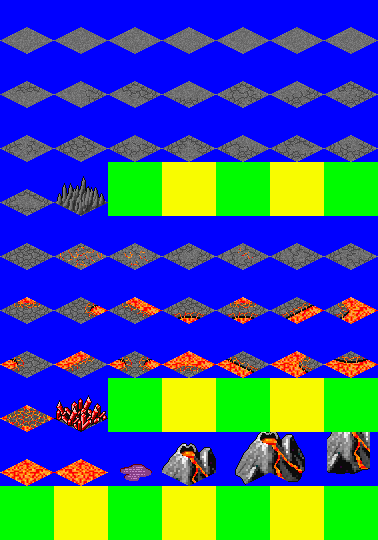
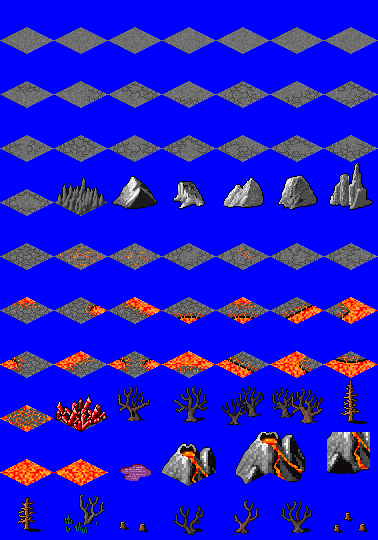
Map gen tweaks

Changed region(s): [[0.0, 0.8889, 1.0, 1.0], [0.2619, 0.6815, 1.0, 0.8], [0.2619, 0.2963, 1.0, 0.4148]]

diff --git a/mapgen.py b/mapgen.py
@@ -604,12 +604,12 @@ class EdgeOfCivilization( RandomScene ):
     def prepare( self, gb ):
         # Step one- we're going to use a plasma map to set water/lo/hi ground.
         # Fill all non-water tiles with True walls for now.
-        myplasma = Plasma()
+        self.plasma = Plasma()
         for x in range( self.width ):
             for y in range( self.height ):
-                if myplasma.map[x][y] < 0.15:
+                if self.plasma.map[x][y] < 0.15:
                     gb.map[x][y].floor = maps.WATER
-                elif myplasma.map[x][y] < 0.75:
+                elif self.plasma.map[x][y] < 0.75:
                     gb.map[x][y].floor = maps.LOGROUND
                     gb.map[x][y].wall = True
                 else:
@@ -632,9 +632,7 @@ class EdgeOfCivilization( RandomScene ):
                     self.civilized_bits.append( r )
 
         # Create the road.
-        road = pygame.Rect( self.area.x + self.area.width - 10, self.area.y, 7, self.area.height )
-        self.fill( gb, road, floor=maps.HIGROUND, wall=None )
-        self.fill( gb, road.inflate(4,0), wall=None )
+        self.road = pygame.Rect( self.area.x + self.area.width - 10, self.area.y, 7, self.area.height )
 
         self.roadbits = list()
         for y in range(10):
@@ -646,6 +644,12 @@ class EdgeOfCivilization( RandomScene ):
     def connect_contents( self, gb ):
         # Connect all civilized areas with HIGROUND.
         connected = self.roadbits
+        r_prev = connected[0]
+        for r in connected[1:]:
+            self.draw_road_connection( gb, r.area.centerx, r.area.centery, r_prev.area.centerx, r_prev.area.centery )
+            r_prev = r            
+        self.draw_road_connection( gb, connected[0].area.centerx, connected[0].area.centery, self.road.centerx, self.road.top )
+        self.draw_road_connection( gb, connected[-1].area.centerx, connected[-1].area.centery, self.road.centerx, self.road.bottom )
         for r in self.civilized_bits:
             connected.sort( key=r.find_distance_to )
             self.draw_road_connection( gb, r.area.centerx, r.area.centery, connected[0].area.centerx, connected[0].area.centery )
@@ -653,22 +657,44 @@ class EdgeOfCivilization( RandomScene ):
 
     mutate = CellMutator()
 
-    def convert_true_walls( self ):
-        for x in range( self.width ):
-            for y in range( self.height ):
-                if self.gb.map[x][y].wall == True:
-                    self.gb.map[x][y].wall = maps.BASIC_WALL
-
     def draw_road_connection( self, gb, x1,y1,x2,y2 ):
         path = animobs.get_line( x1,y1,x2,y2 )
         for p in path:
-            self.fill( gb, pygame.Rect(p[0]-1,p[1]-1,3,3), floor=maps.HIGROUND, wall=None )
+            self.fill( gb, pygame.Rect(p[0]-2,p[1]-2,5,5), wall=None )
+            self.fill( gb, pygame.Rect(p[0]-1,p[1]-1,3,3), floor=maps.HIGROUND )
+
+    def water_nearby( self, x, y ):
+        """Return True if a water tile is adjacent."""
+        found_water = False
+        for d in self.gb.DELTA8:
+            if self.gb.get_floor( x + d[0], y + d[1] ) is maps.WATER:
+                found_water = True
+                break
+        return found_water
+
+    def four_true_walls( self, x, y ):
+        """Return True if this tile is upper left corner of block of four True walls."""
+        return (self.gb.get_wall(x+1,y) is True) and (self.gb.get_wall(x+1,y+1) is True) and (self.gb.get_wall(x,y+1) is True)
 
     def convert_true_walls( self ):
         for x in range( self.width ):
             for y in range( self.height ):
                 if self.gb.map[x][y].wall == True:
-                    self.gb.map[x][y].wall = maps.TREES
+                    if x%3 == 0 and y%3 == 0 and self.four_true_walls(x,y) and random.triangular(0.3,1.0,0.90) < self.plasma.map[x][y]:
+                        self.gb.map[x][y].wall = maps.MOUNTAIN_TOP
+                        self.gb.map[x+1][y].wall = maps.MOUNTAIN_RIGHT
+                        self.gb.map[x][y+1].wall = maps.MOUNTAIN_LEFT
+                        self.gb.map[x+1][y+1].wall = maps.MOUNTAIN_BOTTOM
+                    elif self.water_nearby( x, y ):
+                        if random.randint(1,3) != 2:
+                            self.gb.map[x][y].wall = maps.ROCKS
+                        else:
+                            self.gb.map[x][y].wall = None
+                    else:
+                        if self.plasma.map[x][y] < 0.85:
+                            self.gb.map[x][y].wall = maps.TREES
+                        else:
+                            self.gb.map[x][y].wall = maps.ROCKS
 
 
 if __name__ == '__main__':

diff --git a/maps.py b/maps.py
@@ -38,7 +38,7 @@ class SingTerrain( object ):
     def __reduce__( self ):
         return self.ident
 
-class VariableTerrain( object ):
+class VariableTerrain( SingTerrain ):
     # A singleton terrain class; use these objects as tokens for maps.
     def __init__( self, ident, spritesheet = SPRITE_FLOOR, block_vision = False, block_walk = False, block_fly = False, frames = (0,1,) ):
         # ident should be the module-level name of this stat.
@@ -203,7 +203,8 @@ MOUNTAIN_RIGHT = SingTerrain( "MOUNTAIN_RIGHT", block_walk = True, frame = 61 )
 MOUNTAIN_BOTTOM = SingTerrain( "MOUNTAIN_BOTTOM", block_walk = True, frame = 62 )
 SPIRAL_STAIRS_UP = SingTerrain( "SPIRAL_STAIRS_UP", block_walk = True, spritesheet=SPRITE_INTERIOR, frame=0 )
 SPIRAL_STAIRS_DOWN = SingTerrain( "SPIRAL_STAIRS_DOWN", block_walk = True, spritesheet=SPRITE_INTERIOR, frame=1 )
-TREES = CrowdTerrain( "TREES", inner_frames = (54,67,68,69,67,68,69), outer_frames = (51,52,53,63,64,65,66) )
+ROCKS = VariableTerrain( "ROCKS", spritesheet = SPRITE_GROUND, block_walk=True, frames = (23,24,25,26,27) )
+TREES = CrowdTerrain( "TREES", inner_frames = (51,52,53,54,55), outer_frames = (63,64,65,66,67,68,69) )
 
 # DECOR TYPES
 BOOKSHELF = OnTheWallTerrain( "BOOKSHELF", frame = 13, block_walk=True )

diff --git a/monsters/animals.py b/monsters/animals.py
@@ -135,7 +135,7 @@ class WoodBeetle( base.Monster ):
 
 class FireBeetle( base.Monster ):
     name = "Fire Beetle"
-    statline = { stats.STRENGTH: 10, stats.TOUGHNESS: 11, stats.REFLEXES: 11, \
+    statline = { stats.STRENGTH: 10, stats.TOUGHNESS: 9, stats.REFLEXES: 8, \
         stats.INTELLIGENCE: 1, stats.PIETY: 1, stats.CHARISMA: 1 }
     SPRITENAME = "monster_bugs.png"
     FRAME = 8
@@ -234,7 +234,7 @@ class SwampDragonfly( base.Monster ):
 
     TECHNIQUES = ( invocations.MPInvocation( "Acid Breath",
       effects.OpposedRoll( att_skill=stats.PHYSICAL_ATTACK, att_stat=stats.REFLEXES, att_modifier=10, def_stat=stats.REFLEXES, on_success = (
-        effects.HealthDamage( (1,8,0), stat_bonus=None, element=stats.RESIST_ACID, anim=animobs.GreenExplosion )
+        effects.HealthDamage( (1,6,0), stat_bonus=None, element=stats.RESIST_ACID, anim=animobs.GreenExplosion )
       ,), on_failure = (
         effects.NoEffect( anim=animobs.SmallBoom )
       ,) ), com_tar=targetarea.SingleTarget(), shot_anim=animobs.GreenSpray, ai_tar=invocations.vs_enemy, mp_cost=3
